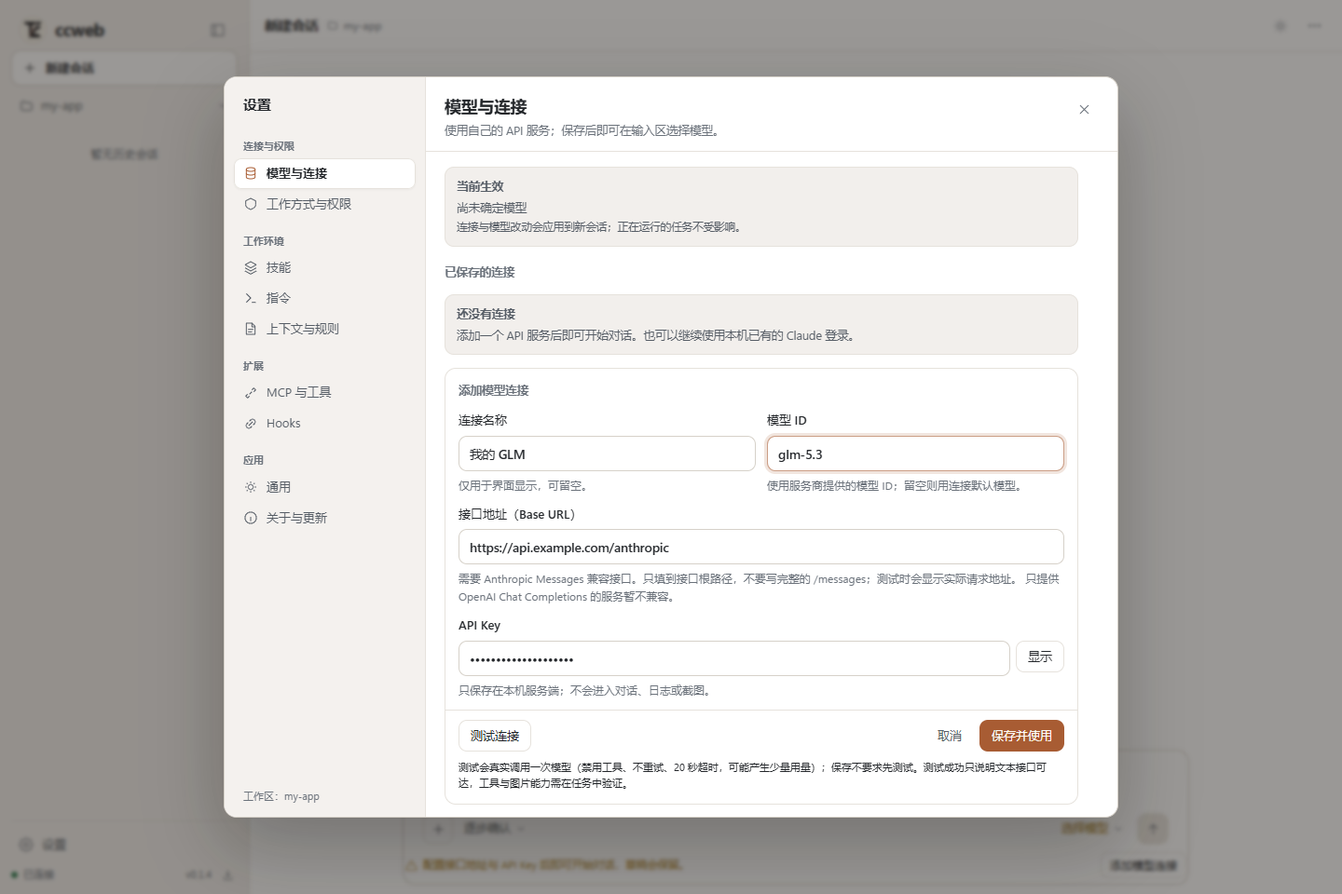
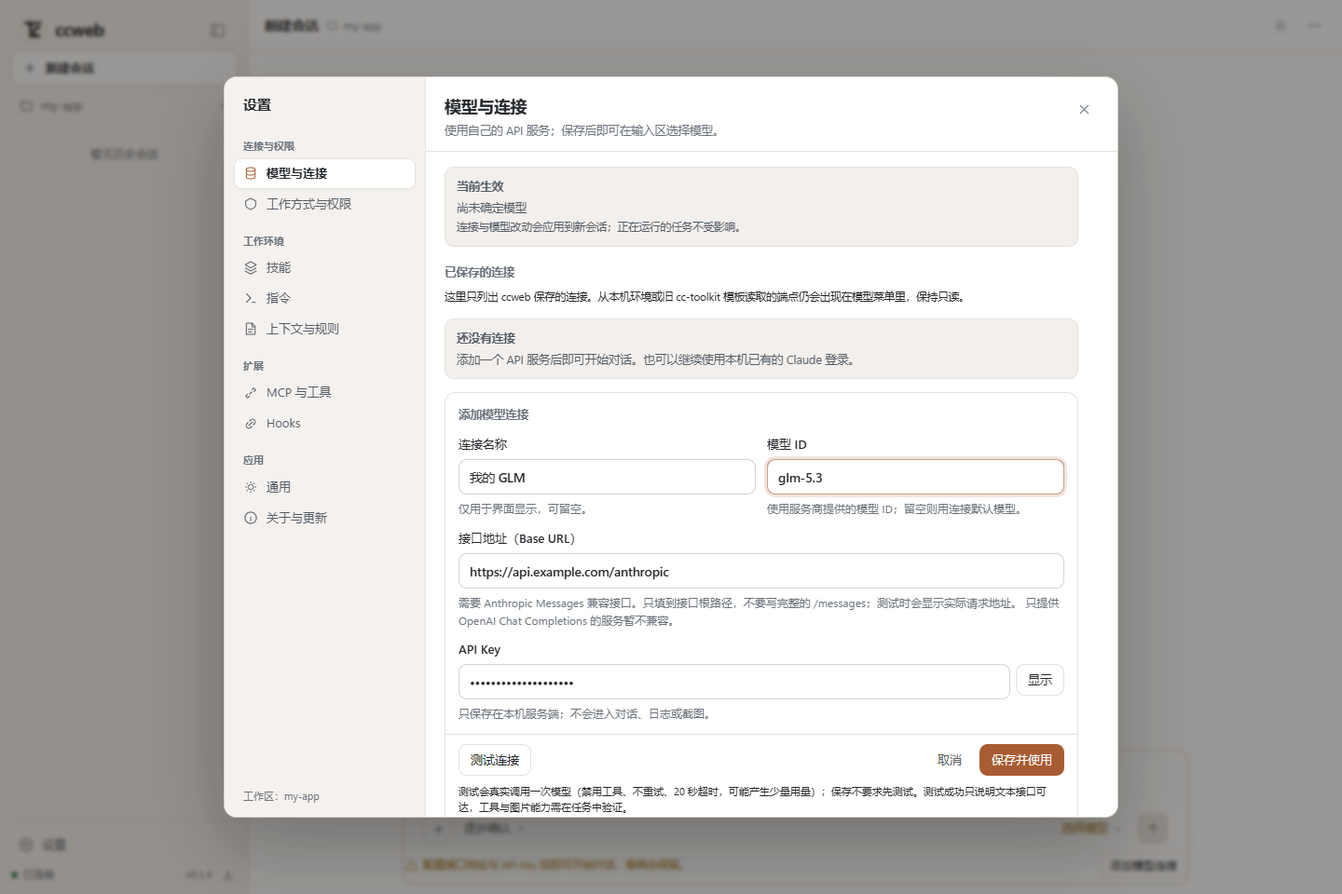
docs(v3): 补充对照原始 Spec 的执行者自验收 / add spec-by-spec self-review
- 新增 §15:复核方法、本轮修复的 13 个缺口、仍未满足/未验证项、逐节结论、前后对照、证据索引与不能宣称的结论
- §14 更新为 47 服务端单测/23 前端单测/42 E2E,补充实际安装包启动验证与最终指纹
- UX01–UX14 状态改为通过/部分/未验的真实分级,不再统一写“通过”
- SPEC/产品诊断同步计数与未验边界;能力矩阵标注原生终端仅为排障入口

Changed region(s): [[0.3438, 0.3125, 0.8125, 0.9062], [0.5625, 0.4688, 0.8125, 0.5938]]

diff --git a/docs/UX_V3_EXECUTION_SPEC.md b/docs/UX_V3_EXECUTION_SPEC.md
@@ -2,7 +2,7 @@
 
 日期：2026-10-31。交付对象：DeepSeek Harness 中执行开发的多模态模型。起草时 HEAD 为 `f57d9c9`；实现前重新检查实际 Git，保留后续改动。本文件是**待实施的执行规范**，不是功能完成报告。配套 [交互预览](ux-v3/preview.html)、[浅色工作台](ux-v3/workbench-light.png)、[深色工作台](ux-v3/workbench-dark.png)、[连接设置](ux-v3/connection.png)、[折叠态](ux-v3/collapsed.png)。预览均为设计示意，里面的数据是样例，不是真实任务证据。
 
-> **实施状态（2026-10-31 执行后更新）**：P0–P6 已在工作区实现并通过本地质量门与真实浏览器回归；实际界面截图见 [实现截图](ux-v3/implemented/)，逐项结论、验证分层与未验项见 [§14 实施记录](#14-实施记录2026-10-31)。设计预览保留为方向参考，实际排版按中文可读性做了调整。
+> **实施状态（2026-10-31 执行后更新）**：P0–P6 已在工作区实现并通过本地质量门、真实浏览器回归与实际安装包验证；实际界面截图见 [实现截图](ux-v3/implemented/)。逐项结论、验证分层与未验项见 [§14](#14-实施记录2026-10-31)；对照原始 Spec 的执行者自验收（含仍需修复/未验证项）见 [§15](#15-执行者自验收对照原始-spec-逐条复核2026-10-31)。设计预览保留为方向参考，实际排版按中文可读性做了调整。
 
 ## 1. 本轮任务与优先级变化
 
@@ -189,7 +189,7 @@
 - [x] P3 完成连接与模型闭环：ccweb 自有连接存储、真实连通测试与错误分类、模板兼容合并、模型/工作方式菜单与生效范围说明、认证来源保留。
 - [x] P4 整理任务过程与结果：移除顶栏终端/改动/详情三大入口，终端降级为设置中的排障功能；用量降噪；改动侧面板与运行详情抽屉；任务/回退按需；中断与导航显式确认。
 - [x] P5 细节统一与自发现修复：深浅主题、1280/1440/1920/2560、窄屏抽屉、中文 IME、长路径/长输出、空/错/加载态、文案与对比度统一。
-- [x] P6 同版交付：lint / typecheck / 单测 / 构建 / 39 项 E2E 全通过；新增 V3 契约用例与截图；文档与本地提交。未发布、未推送。
+- [x] P6 同版交付：lint / typecheck / 单测 / 构建 / 42 项 E2E 全通过；实际打包安装并在浏览器验证；新增 V3 契约用例与截图；文档与本地提交。未发布、未推送。
 
 执行者可以合并/调整步骤以减少返工，但不能跳过关键验收、把未验项勾选或每修一个小问题就停止等待“继续”。正常的组件取舍和视觉细节自主决定。涉及更换运行引擎、引入大型协议代理、全局凭证迁移/删除或对其他项目有副作用时，先把方案具体化再提出最小问题；同时继续无依赖工作。
 
@@ -272,10 +272,11 @@
 
 | 层 | 结果 | 证据 |
 | --- | --- | --- |
-| 单元/协议（server） | 45 项通过 | `apps/server` vitest：连接存储、URL 规范化、真实探测分类、配置 API、协议与运行校验 |
+| 单元/协议（server） | 47 项通过 | `apps/server` vitest：连接存储、URL 规范化、真实探测分类、配置 API、协议与运行校验、设置作用域 |
 | 单元（web） | 23 项通过 | `apps/web` vitest：渲染模型、ANSI、markdown 增量、上下文口径 |
 | 静态检查 | 通过 | `pnpm lint`、`pnpm typecheck`、`pnpm build` |
-| 浏览器 E2E（模拟 SDK + 真实浏览器 Edge） | 39 项通过 | `apps/web/e2e`：V3 契约、运行时、审批/队列、配置编辑、原生终端、布局与截图 |
+| 浏览器 E2E（模拟 SDK + 真实浏览器 Edge） | 42 项通过 | `apps/web/e2e`：V3 契约、会话/默认作用域、审批/队列、配置编辑、协议拒绝、原生终端、布局与截图 |
+| 实际打包安装 | 通过 | `npm pack` 产物在临时目录 `npm install --ignore-scripts`（110 个依赖）后启动 3496 端口；浏览器加载 V3 界面、设置分类与 `/api/connections` 正常，无 pageerror |
 | 真实浏览器人工走查 | 已完成 | 1440×960 深浅主题、1280/1920、760 窄屏抽屉、设置单列、菜单/用量/审批/改动/详情截图 |
 | 真实服务商模型 | **未验证** | 本轮无可用第三方凭证；连通测试接口只在测试中通过 mock HTTP 校验分类，未对真实服务商发请求 |
 | 真实模型长任务/工具/图片 | **未验证** | E2E 与截图使用 fixture SDK；真实模型的工具调用、图片理解、长输出和取消仍需在有凭证时回归 |
@@ -294,24 +295,36 @@
 | 图片按钮像系统文件表单 | 已修：「＋」菜单选择图片，支持粘贴/拖入，附件可预览/删除，发送失败保留 |
 | 国内模型 URL + Key 配置困难 | 已实现：自有连接存储、保存并使用、真实测试与 401/403/404/429/超时/网络/协议错误分类；协议边界在表单内说明 |
 | 任务过程和结果信息层级混乱 | 已重组：对话优先；工具卡紧凑；结果附近出现「本次改动」；计划/反问/审批在输入区上方就地处理 |
+| **复核发现**：模型/工作方式同时改当前会话与默认 | 已扩展 `settings.patch.scope`（session/default/both）；菜单默认改当前会话，另设「保存为默认」；连接/上下文类只改默认并说明新会话生效 |
+| **复核发现**：设置变更没有“请求中”状态，可能提前显示成功 | 已增加 `settingsPending`：按钮显示确认中/小圆点，收到 settings 回执清除；8 秒无回执则报错并恢复 |
+| **复核发现**：OpenAI 兼容地址可被保存后在对话里才失败 | 已阻止保存（按钮禁用并说明原因）；探测返回非 Anthropic 格式同样阻止 |
+| **复核发现**：测试连接不能取消、双击语义含糊 | 改为“测试中…”禁用 + 独立「取消测试」按钮；取消不保存任何内容；成功后按钮变「重试连接测试」 |
+| **复核发现**：多项审批只显示最后一个 | 审批头显示「还有 N 个待确认」 |
+| **复核发现**：失败的工具卡默认折叠 | 失败工具自动展开；Bash 完成仍自动展开 |
+| **复核发现**：改动面板只有计数，没有结果摘要 | 增加“修改了哪些文件 / 检查了几条命令 / 多少条失败 / 多少改动未确认”一行摘要 |
+| **复核发现**：工作区列表很长时“添加项目”会滚走 | 菜单底部新增操作改为固定区 |
+| **复核发现**：会话行操作与消息操作点击区偏小 | 会话行操作 24→28px，消息复制/分叉 26→28px；辅助文字 10.5→11px |
+| **复核发现**：发现模型容易被理解为账号可用 | 模型菜单注明“发现清单不代表可用，取决于服务商权限与额度” |
+| **复核发现**：旧 cc-toolkit 模板来源不清 | 连接页说明“这里只管理 ccweb 保存的连接；本机/旧模板端点只读出现在模型菜单” |
+| **复核发现**：无后台任务时任务区是空入口 | 改为明确说明“只有运行时报出后台任务时才出现可停止条目” |
 
-### 14.6 UX01–UX14 对照
+### 14.6 UX01–UX14 对照（2026-10-31 复核后）
 
 | ID | 状态 | 说明 |
 | --- | --- | --- |
 | UX01 | 通过 | 展开→收起→新建→旧会话→设置→返回均有 E2E/人工走查；折叠栏无文字挤压 |
-| UX02 | 通过 | 项目菜单分区、搜索、移除记录、新增表单与绝对路径校验；列表内部滚动 |
-| UX03 | 通过 | 工作方式/模型以回执生效；运行时拒绝时保持原值并显示错误 |
-| UX04 | 通过 | 用量弹层内部展开不关闭，外点/Esc 关闭并回焦，不遮挡发送/停止 |
+| UX02 | 通过（可选未做） | 项目菜单分区、搜索、移除记录、新增表单与绝对路径校验；列表内部滚动。固定项目（可选项）未实现 |
+| UX03 | **部分** | 模型/工作方式已确认值、拒绝恢复、会话/默认分权、待确认状态已验证；断线时切换未做专项 E2E，运行中不可变更项以运行时错误呈现而非事前禁用 |
+| UX04 | 通过 | 用量弹层内部展开不关闭，外点/Esc 关闭并回焦；760 宽实测弹层与发送按钮不相交 |
 | UX05 | 通过（mock 探测） | 无连接时可打开表单，字段校验/保存回执/当前生效说明完整；真实服务商待验 |
-| UX06 | 通过（mock 探测） | 测试结果绑定草稿签名，改草稿后标记过期；不自动重试、不回传 Key |
-| UX07 | 通过 | 图片选择/粘贴/拖入、删除、断线保留、重发；视觉理解能力未在真实模型验证 |
-| UX08 | 通过 | 审批显示文件/命令与差异；工具返回成功后才计入改动；面板与对话并存 |
-| UX09 | 通过 | 计划采纳/继续修改、反问选项、多审批、队列与停止均有回归 |
-| UX10 | 通过 | 设置草稿跨分类/关闭确认；Esc 不误伤 IME；磁盘冲突保留草稿与比较入口 |
-| UX11 | 通过 | 刷新/重连恢复会话与审批；导航在运行中先确认再中断；不重跑旧任务 |
-| UX12 | 通过 | 1280/1440/1920/2560、深浅主题、窄屏抽屉无水平溢出；CSS zoom 代替系统缩放 |
-| UX13 | 通过 | 长路径、长输出、长计划、空列表均有滚动/摘要/空态 |
+| UX06 | 通过（mock 探测） | 草稿签名、改草稿标记过期、取消测试、双击去重、旧 key 保留、不自动重试；20 秒超时由服务端实现，浏览器未等满 |
+| UX07 | 通过（部分未验） | 图片选择/粘贴/拖入、删除、失败保留、重新生成带附件；断线发送未做专项 E2E，视觉理解未在真实模型验证 |
+| UX08 | 通过（模拟） | 审批显示文件/命令与差异；工具成功后才计入改动；面板与对话并存；真实模型测试证据未验 |
+| UX09 | 通过（模拟） | 计划采纳/继续修改、反问多选、多项审批计数、队列与停止均有回归 |
+| UX10 | **部分** | 设置草稿跨分类/关闭确认、IME 已验证；磁盘外部修改冲突只有服务端单测，未做浏览器端冲突演练 |
+| UX11 | 通过 | 刷新/重连恢复会话与审批；导航在运行中先确认再中断；重启不重跑旧任务 |
+| UX12 | **部分** | 1280/1440/1920/2560、深浅主题、760 抽屉无水平溢出；Windows 系统级缩放未验，仅 CSS zoom |
+| UX13 | **部分** | 长路径、长输出、长计划、空列表均有滚动/摘要/空态；100 文件级规模未专项压测 |
 | UX14 | 通过 | 默认界面无原生终端入口或强制终端跳转；排障入口在设置中并有风险说明 |
 
 ### 14.7 后续（不在本轮默认范围）
@@ -324,8 +337,96 @@
 
 | 项 | 结果 |
 | --- | --- |
-| 质量门 | `pnpm check`：lint、typecheck、45 项服务端测试、23 项前端测试、web/server 构建全部通过 |
-| 浏览器回归 | Edge 39/39（mock SDK + 真实浏览器，端口 3499/3495）；另用干净 fixture 环境生成文档截图 |
[1 lines of base64/hex data omitted]
+| 质量门 | `pnpm check`：lint、typecheck、47 项服务端测试、23 项前端测试、web/server 构建全部通过 |
+| 浏览器回归 | Edge 42/42（mock SDK + 真实浏览器，端口 3499/3495）；另用干净 fixture 环境生成文档截图 |
[1 lines of base64/hex data omitted]
+| 安装验证 | 临时目录 `npm install --ignore-scripts`（110 个依赖）→ 启动 3496 → 浏览器加载 V3、打开设置、`/api/connections` 正常，无 pageerror |
 | 发布状态 | 未发布 npm、未推送远端；安装包只用于本地校验 |
 | 截图 | `docs/ux-v3/implemented/*.png`（Edge 1440×960，样例数据，非真实模型证据） |
+
+## 15. 执行者自验收：对照原始 Spec 逐条复核（2026-10-31）
+
+> 结论先说：**技术验收已过，但不能宣称“全部完成”。** 本轮复核新发现并修复了 13 个真实缺口（见 15.2）；仍有 1 个功能缺失、若干能力无法在本机验证（见 15.3）。下列状态区分“已实现并有证据”“已实现但仅模拟/部分验证”“未实现”“未验证”，不把 mock 当真实服务商证据。
+
+### 15.1 复核方法
+
+1. 重新通读 [§3 目标、§4 信息架构、§5 连接、§6 用量与结果、§7 终端、§8 交互视觉、§11 UX 矩阵]。
+2. 对每条要求定位到实际代码、E2E 用例或人工走查截图；找不到证据的标为“部分/未验”，不按印象勾选。
+3. 用真实 Edge 在 1440/1280/1920/760、深浅主题走查；用 fixture SDK 跑完整交互；用 `npm pack` + 临时安装验证交付物。
+4. 复核发现的问题当场修复并补回归；无法在本机验证的逐条列明原因与下一步。
+
+### 15.2 本轮复核发现并已修复
+
+| 缺口 | 影响 | 修复与证据 |
+| --- | --- | --- |
+| `settings.patch` 同时修改当前会话与新会话默认 | 用户只想改当前对话，却悄悄改掉默认；反之亦然 | 协议新增 `scope`（session/default/both），服务端分别应用并支持回滚；菜单显示“当前会话/新会话默认”，提供“保存为默认”；集成测试断言 session 变更不进入持久默认 |
+| 设置变更没有“请求中”状态 | 按钮可能提前显示成功 | `settingsPending` + 按钮确认中小圆点；收到 settings 回执清除，8 秒无回执报错 |
+| OpenAI Chat Completions / Responses 地址可保存 | 到对话里才报莫名错误 | 表单识别后显示“此接口格式当前不兼容”，禁用保存；探测返回非 Anthropic 格式同样阻止 |
+| 测试连接不能取消，双击语义含糊 | 20 秒等待无法退出；双击可能重复请求 | 测试中禁用原按钮并出现独立“取消测试”；取消不发保存；成功后可“重试连接测试” |
+| 多项审批只显示最后一条 | 用户不知道还有多少操作等待 | 审批头显示“还有 N 个待确认” |
+| 失败的工具卡默认折叠 | 异常被压缩成一行状态字 | 失败工具自动展开（用户手动折叠后尊重用户） |
+| 改动面板只有计数 | 看不出改了什么、检查了什么、还有什么没完成 | 增加文件/命令/失败/未确认一行摘要 |
+| 工作区列表过长时“添加项目”滚出视野 | 新增项目入口不稳定 | 菜单底部操作改为 sticky 固定区 |
+| 会话行操作与消息操作点击区偏小 | 容易点错/难点中 | 24→28px、26→28px；辅助文字 10.5→11px |
+| 发现的模型被误认为账号可用 | 选完在真实调用时失败 | 菜单注明“发现清单不代表可用” |
+| 旧 cc-toolkit 模板来源不清 | 用户不知道为何列表里有“额外连接” | 连接页说明只管理 ccweb 保存的连接；旧模板只读出现在模型菜单 |
+| 没有后台任务时任务区是空入口 | 误导用户以为有任务 | 明确说明只有运行时报告任务时才出现可停止条目 |
+| 端点已配置但未解析模型时显示“选择模型” | 看起来像完全没配置 | 改为“<主机> · 默认模型”，title 说明使用连接默认 |
+
+### 15.3 仍未满足 / 未验证（不允许勾成通过）
+
+| 项 | 状态 | 原因 / 下一步 |
+| --- | --- | --- |
+| 真实第三方 Anthropic Messages 服务商连通与一次真实任务 | **未验证** | 本轮无可用凭证；不会用 mock 冒充。需用户提供 Base URL/Key 后按 UX05/UX06 再验 |
+| 真实模型工具调用、长任务、图片理解 | **未验证** | E2E 使用 fixture SDK；历史审计已记录 GLM 图片理解失败，不能宣称视觉能力通过 |
+| Windows 系统级 125%/150% 缩放 | **部分** | 已用 1280–2560 视口与 CSS zoom；未在系统缩放后的登录会话复核 |
+| 删除会话后的“恢复” | **未实现** | 原产品也没有该功能；Spec §6.2 要求“仍应可找到”，当前只能通过分叉/历史文件恢复，需单独立项 |
+| 会话作用域只覆盖模型与工作方式 | **可解释的限制** | 端点、认证、上下文来源、思考力度属于启动参数，只能保存默认并提示“新建会话生效”；界面提供“新建会话并应用” |
+| 运行中不可变更项的事前禁用 | **部分** | 当前由运行时回执拒绝并恢复原值，菜单有“生成中修改由运行时确认”的说明；未做逐项能力查询 |
+| 100 文件级改动/超长计划专项压测 | **部分** | 已有长输出、长路径、空列表覆盖；未生成 100 文件规模样本 |
+| 逐字段内联校验 | **部分** | 当前为表单级错误提示；服务端错误含字段语义，但未把错误定位到单个输入框 |
+| 附件重复发送二次确认 | **未做** | 发送失败后允许直接重发（保留附件）；未增加“同一附件重复发送”确认 |
+| 固定项目 / 国内厂商模板 | **可选未做** | Spec 标为“可支持/可选”；厂商协议地址需要按实施时官方资料核对，避免内置过时地址 |
+
+### 15.4 逐节结论
+
+| Spec 节 | 状态 | 说明 |
+| --- | --- | --- |
+| §3 目标 1（连接→真实任务） | 部分 | 表单/保存/测试/错误恢复完整；真实任务未验 |
+| §3 目标 2（主界面收敛） | 通过 | 主界面只保留项目/会话/输入/模型/工作方式/发送停止 |
+| §3 目标 3（无重叠/溢出/焦点/草稿） | 通过 | 折叠栏断言行盒、菜单外点/Esc 回焦、草稿跨设置/折叠/刷新 |
+| §3 目标 4（统一点击规则） | 通过 | 统一 Menu/Modal 原语；模态草稿确认与焦点陷阱 |
+| §3 目标 5（模型/权限可见、回执生效） | 部分 | 会话/默认分权、待确认、失败恢复已做；运行中逐项禁用未做 |
+| §3 目标 6（过程/结果可找到） | 通过 | 审批/问题/停止/错误在输入区上方；改动面板与详情按需 |
+| §3 目标 7（真实浏览器/长内容/主题/宽度缩放） | 部分 | 浏览器与宽度/主题通过；系统缩放与真实长任务未验 |
+| §4.1 主工作台 | 通过（一处偏差） | 桌面端展开按钮在侧栏/折叠栏顶部，而非顶栏；可从折叠栏一眼找到 |
+| §4.2 侧栏与工作区 | 通过 | 折叠结构、工作区菜单、绝对路径校验、移除记录、运行中切换确认；固定项目属可选未做 |
+| §4.3 输入/模型/权限 | 部分 | 见 15.3：思考力度无能力查询仍展示、附件重复确认未做 |
+| §5.1 连接表单 | 部分 | 表单/测试/保存/取消草稿完整；厂商模板属可选未做 |
+| §5.2 协议边界 | 通过 | OpenAI 地址明确拒绝保存；Base URL 与请求路径说明；不静默探测多域名 |
+| §5.3 保存与错误 | 部分 | 凭证不回传、hasKey、草稿绑定、取消/超时/去重完整；逐字段内联校验未做；真实服务商未验 |
+| §6.1 用量 | 通过 | 一行摘要、锚定弹层、外点/Esc、诊断内收、累计口径、工具耗时样本 |
+| §6.2 过程与结果 | 部分 | 审批/计划/反问/改动/任务/回退完整；删除会话恢复不存在；基线/外部改动未做自动区分（面板注明证据边界） |
+| §7 原生终端 | 通过 | 默认流程移除，仅设置排障入口；后端与进程归属保留 |
+| §8 交互与视觉 | 通过（建议项部分） | 统一菜单/模态、键盘/IME、主题、字体；点击区仍有 28–34px，未全部达到建议的 32px |
+
+### 15.5 前后对照
+
+| 之前（V2） | 现在（V3） |
+| --- | --- |
+| ![V2](screenshots/v2-workbench.png) | ![V3](screenshots/v3-workbench.png) |
+
+对照重点：顶栏三个大入口 → 收敛为更多；输入区三个原生 select → 聚合菜单 + 圆形发送；占位破折号 → 无数据不展示；工作区下拉混排 → 分区菜单；设置整页 → 居中分类模态。两端均为真实构建截图，内容为样例/测试数据。
+
+### 15.6 证据索引
+
+- 代码：`apps/server/src/{connections,protocol,index,settings,agent}.ts`、`apps/web/src/components/`、`apps/web/src/index.css`
+- 回归：`apps/server/src/*.test.ts`（47）、`apps/web/src/**/*.test.ts`（23）、`apps/web/e2e/{v3,runtime,controls,basic,v2,native,visual}.spec.ts`（42）
+- 交付：`pnpm check`、`npm pack`、临时安装启动 3496、Edge 42/42、文档截图 `docs/ux-v3/implemented/`
[1 lines of base64/hex data omitted]
+
+### 15.7 不能由本轮宣称的结论
+
+- 不能宣称真实第三方模型连接、真实工具/图片/长任务已经过验收。
+- 不能宣称 Windows 原生缩放、删除会话恢复、100 文件规模已经验证。
+- 不能把模拟 SDK 的 42 项 E2E 当作真实模型验收；技术验收不等于用户主观认可。

diff --git a/SPEC.md b/SPEC.md
@@ -1,6 +1,6 @@
 # ccweb — Claude Code Web Console · Stage Spec
 
-> **当前执行方向（2026-10-31，V3 已实施）**：以 [V3 用户体验执行 Spec](docs/UX_V3_EXECUTION_SPEC.md) 为准，进度 7/7，实现与验证记录见该文档 [§14](docs/UX_V3_EXECUTION_SPEC.md#14-实施记录2026-10-31)。本轮已完成对话优先工作台重组、侧栏折叠/工作区菜单、模型与工作方式聚合菜单、用量锚定弹层、居中设置与模型连接流程（含 ccweb 自有连接存储与真实连通测试）、改动侧面板与运行详情抽屉，并把原生终端降级为设置中的排障入口。质量门：lint / typecheck / 45 项服务端单测 / 23 项前端单测 / 39 项真实浏览器 E2E / 构建全部通过；未发布、未推送。真实第三方服务商调用与真实模型长任务仍未验证。下文 V2/6.7 的技术验收保留为历史证据。
+> **当前执行方向（2026-10-31，V3 已实施）**：以 [V3 用户体验执行 Spec](docs/UX_V3_EXECUTION_SPEC.md) 为准，实施清单 7/7；实现记录见 [§14](docs/UX_V3_EXECUTION_SPEC.md#14-实施记录2026-10-31)，逐条自验收与仍未满足项见 [§15](docs/UX_V3_EXECUTION_SPEC.md#15-执行者自验收对照原始-spec-逐条复核2026-10-31)。本轮已完成对话优先工作台重组、侧栏折叠/工作区菜单、模型与工作方式聚合菜单、用量锚定弹层、居中设置与模型连接流程（含 ccweb 自有连接存储与真实连通测试）、改动侧面板与运行详情抽屉，并把原生终端降级为设置中的排障入口。质量门：lint / typecheck / 47 项服务端单测 / 23 项前端单测 / 42 项真实浏览器 E2E / 构建与实际打包安装验证全部通过；未发布、未推送。真实第三方服务商调用与真实模型长任务仍未验证。下文 V2/6.7 的技术验收保留为历史证据。
 
 > 当前状态（2026-10-31）：V2 Stage 5/6 已本地实现与验收；运行修复、配置中心、指标和界面证据见文末与 [产品诊断](docs/PRODUCT_AUDIT.md#v2-实施与验收2026-10-31)。npm 仍为已发布版本 0.1.4，本轮未发布。下文 P0–P4 与初始 Stage 草案保留为历史。
 > 定位:**企业级、可上市的本地 Web 控制台**——大厂开发工具的精度与体验,驱动真 Claude Code runtime。

diff --git a/docs/PRODUCT_AUDIT.md b/docs/PRODUCT_AUDIT.md
@@ -219,6 +219,6 @@ A/B/C/D/G 本地关闭，E/F 人工与账号项保留；完整需求、原生矩
 
 **新增产品能力**：ccweb 自有模型连接存储（`~/.ccweb/connections.json`，0600）与旧 cc-toolkit 模板只读兼容合并；真实连通测试（禁用工具/不重试/20 秒超时）与按状态分类的错误；居中设置与分类导航；「本次改动」侧面板与运行详情抽屉；统一菜单/模态原语与草稿保护。
 
-**测试分层**：lint、typecheck、45 项服务端单测、23 项前端单测、39 项 Edge E2E（模拟 SDK + 真实浏览器）、构建通过。真实第三方服务商调用、真实模型工具/图片长任务、Windows 系统级缩放仍为未验项；不以 mock 探测冒充真实连通。
+**测试分层**：lint、typecheck、47 项服务端单测、23 项前端单测、42 项 Edge E2E（模拟 SDK + 真实浏览器）、构建与实际安装包启动验证通过。真实第三方服务商调用、真实模型工具/图片长任务、Windows 系统级缩放仍为未验项；不以 mock 探测冒充真实连通。
 
 **移除/降级**：默认工作台不再提供原生终端入口或静默终端跳转；原生终端只保留在设置 → 关于与更新中的开发者排障入口。原生进程归属、凭证隔离、取消与恢复逻辑未删除。

diff --git a/docs/NATIVE_CAPABILITY_MATRIX.md b/docs/NATIVE_CAPABILITY_MATRIX.md
@@ -1,5 +1,7 @@
 # Claude Code 操作覆盖矩阵（Stage 6.7，持续验收）
 
+> **V3 产品入口变更（2026-10-31）**：原生终端已从默认工作台、首次使用路径和常用命令跳转中移除，只保留在「设置 → 关于与更新 → 开发者功能」作为排障入口。本表描述的是原生承载能力与历史证据，不代表默认产品流程仍提供同等入口。见 [V3 Spec](UX_V3_EXECUTION_SPEC.md#7-原生终端的产品处理决策)。
+
 基线 B = Windows x64 / SDK **0.3.314** / 随包 CLI **2.1.314**，业务代码 **8e59fcc**。本表所有行均绑定 B，不自动外推到全局 CLI、未来版本或其他账号。原生证据见 [15 组二进制帮助](audit/2026-10-31/runtime-capabilities.json)，由 `apps/server/scripts/capture-runtime.mjs` 生成。在线文档用于对照，可能含比 B 更新的能力。
 
 状态「已实现」不等于真实验收通过；「未验」不等于原生不支持。源码、安装包、模拟协议、实际模型、人工授权分别记录。最终分层证据与未验项见 [验收报告](audit/2026-10-31/STAGE67_ACCEPTANCE.md)。

diff --git a/docs/ux-v3/README.md b/docs/ux-v3/README.md
@@ -24,7 +24,7 @@
 
 ## 实际实现（2026-10-31 自测截图）
 
-以下截图来自本仓库构建产物 + 干净 fixture 环境（Edge 1440×960，中文、浅/深主题），使用样例项目 `my-app` 与示例连接地址；不是真实模型调用证据。完整实现说明、验证分层与未验项见 [Spec §14](../UX_V3_EXECUTION_SPEC.md#14-实施记录2026-10-31)。
+以下截图来自本仓库构建产物 + 干净 fixture 环境（Edge 1440×960，中文、浅/深主题），使用样例项目 `my-app` 与示例连接地址；不是真实模型调用证据。完整实现说明与验证分层见 [Spec §14](../UX_V3_EXECUTION_SPEC.md#14-实施记录2026-10-31)；对照原始 Spec 的逐条自验收、仍未满足/未验证项见 [§15](../UX_V3_EXECUTION_SPEC.md#15-执行者自验收对照原始-spec-逐条复核2026-10-31)。
 
 ### 浅色空态
 ![实现浅色工作台](implemented/workbench-light.png)
